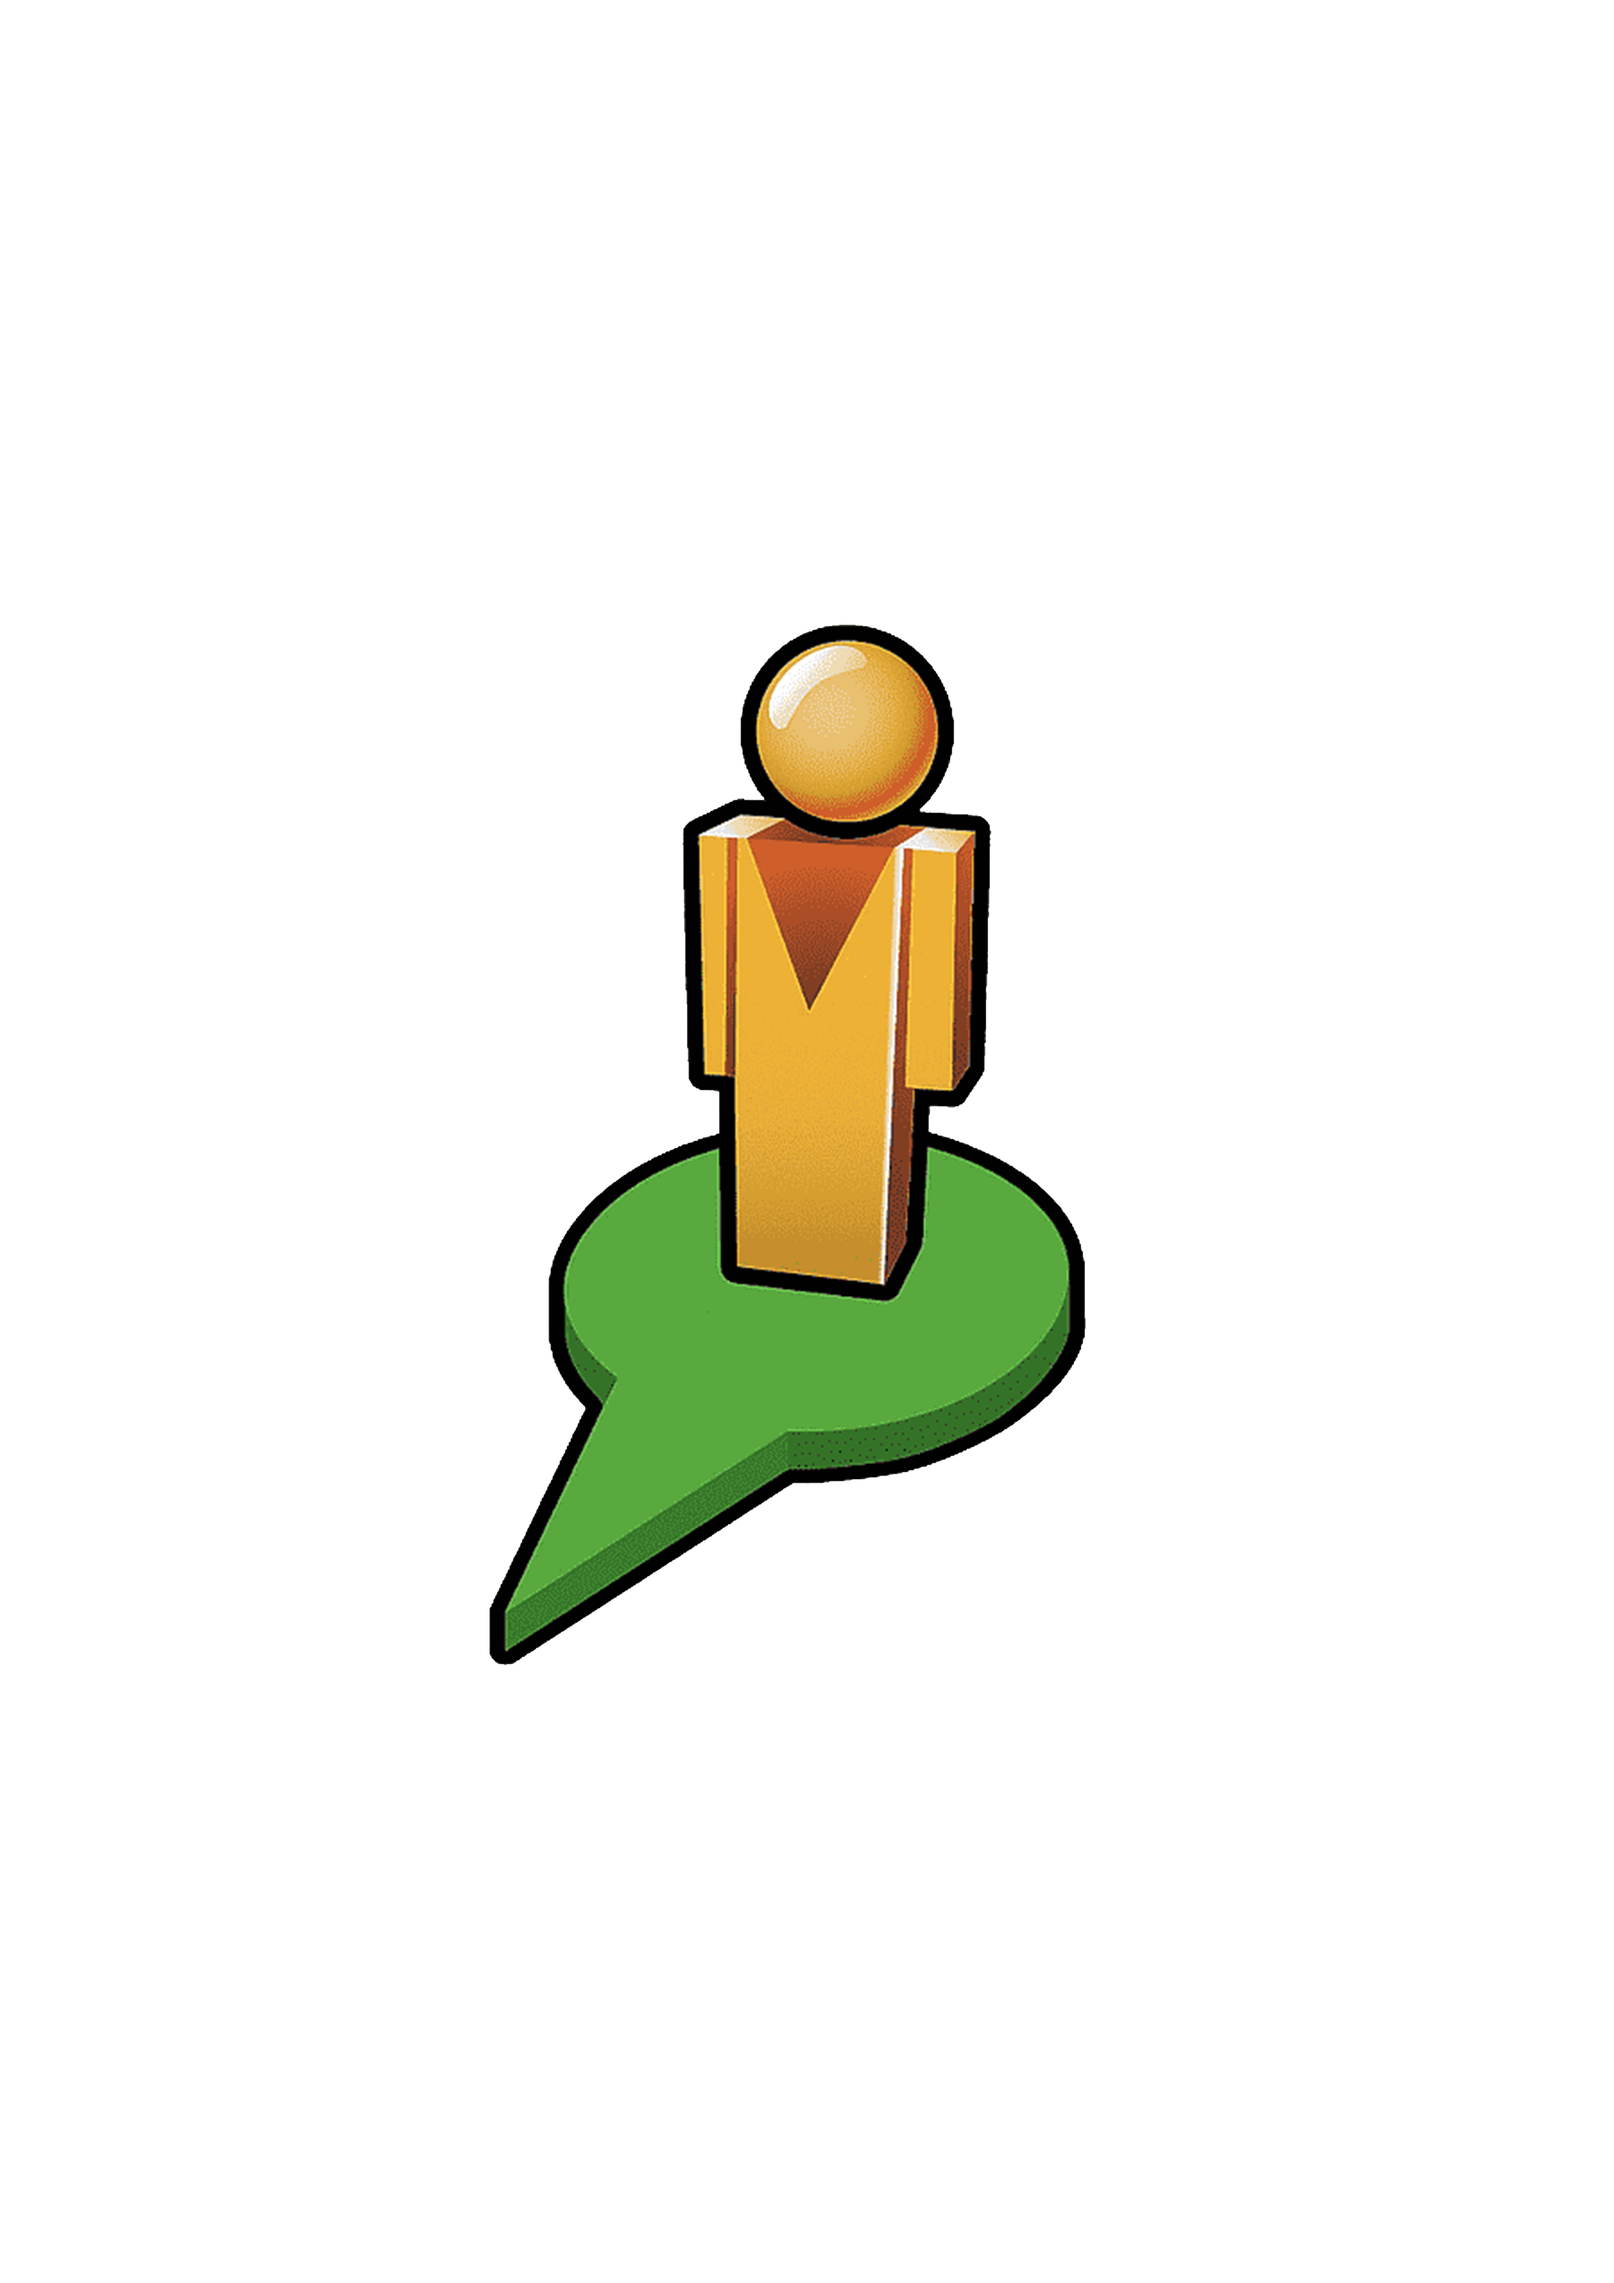
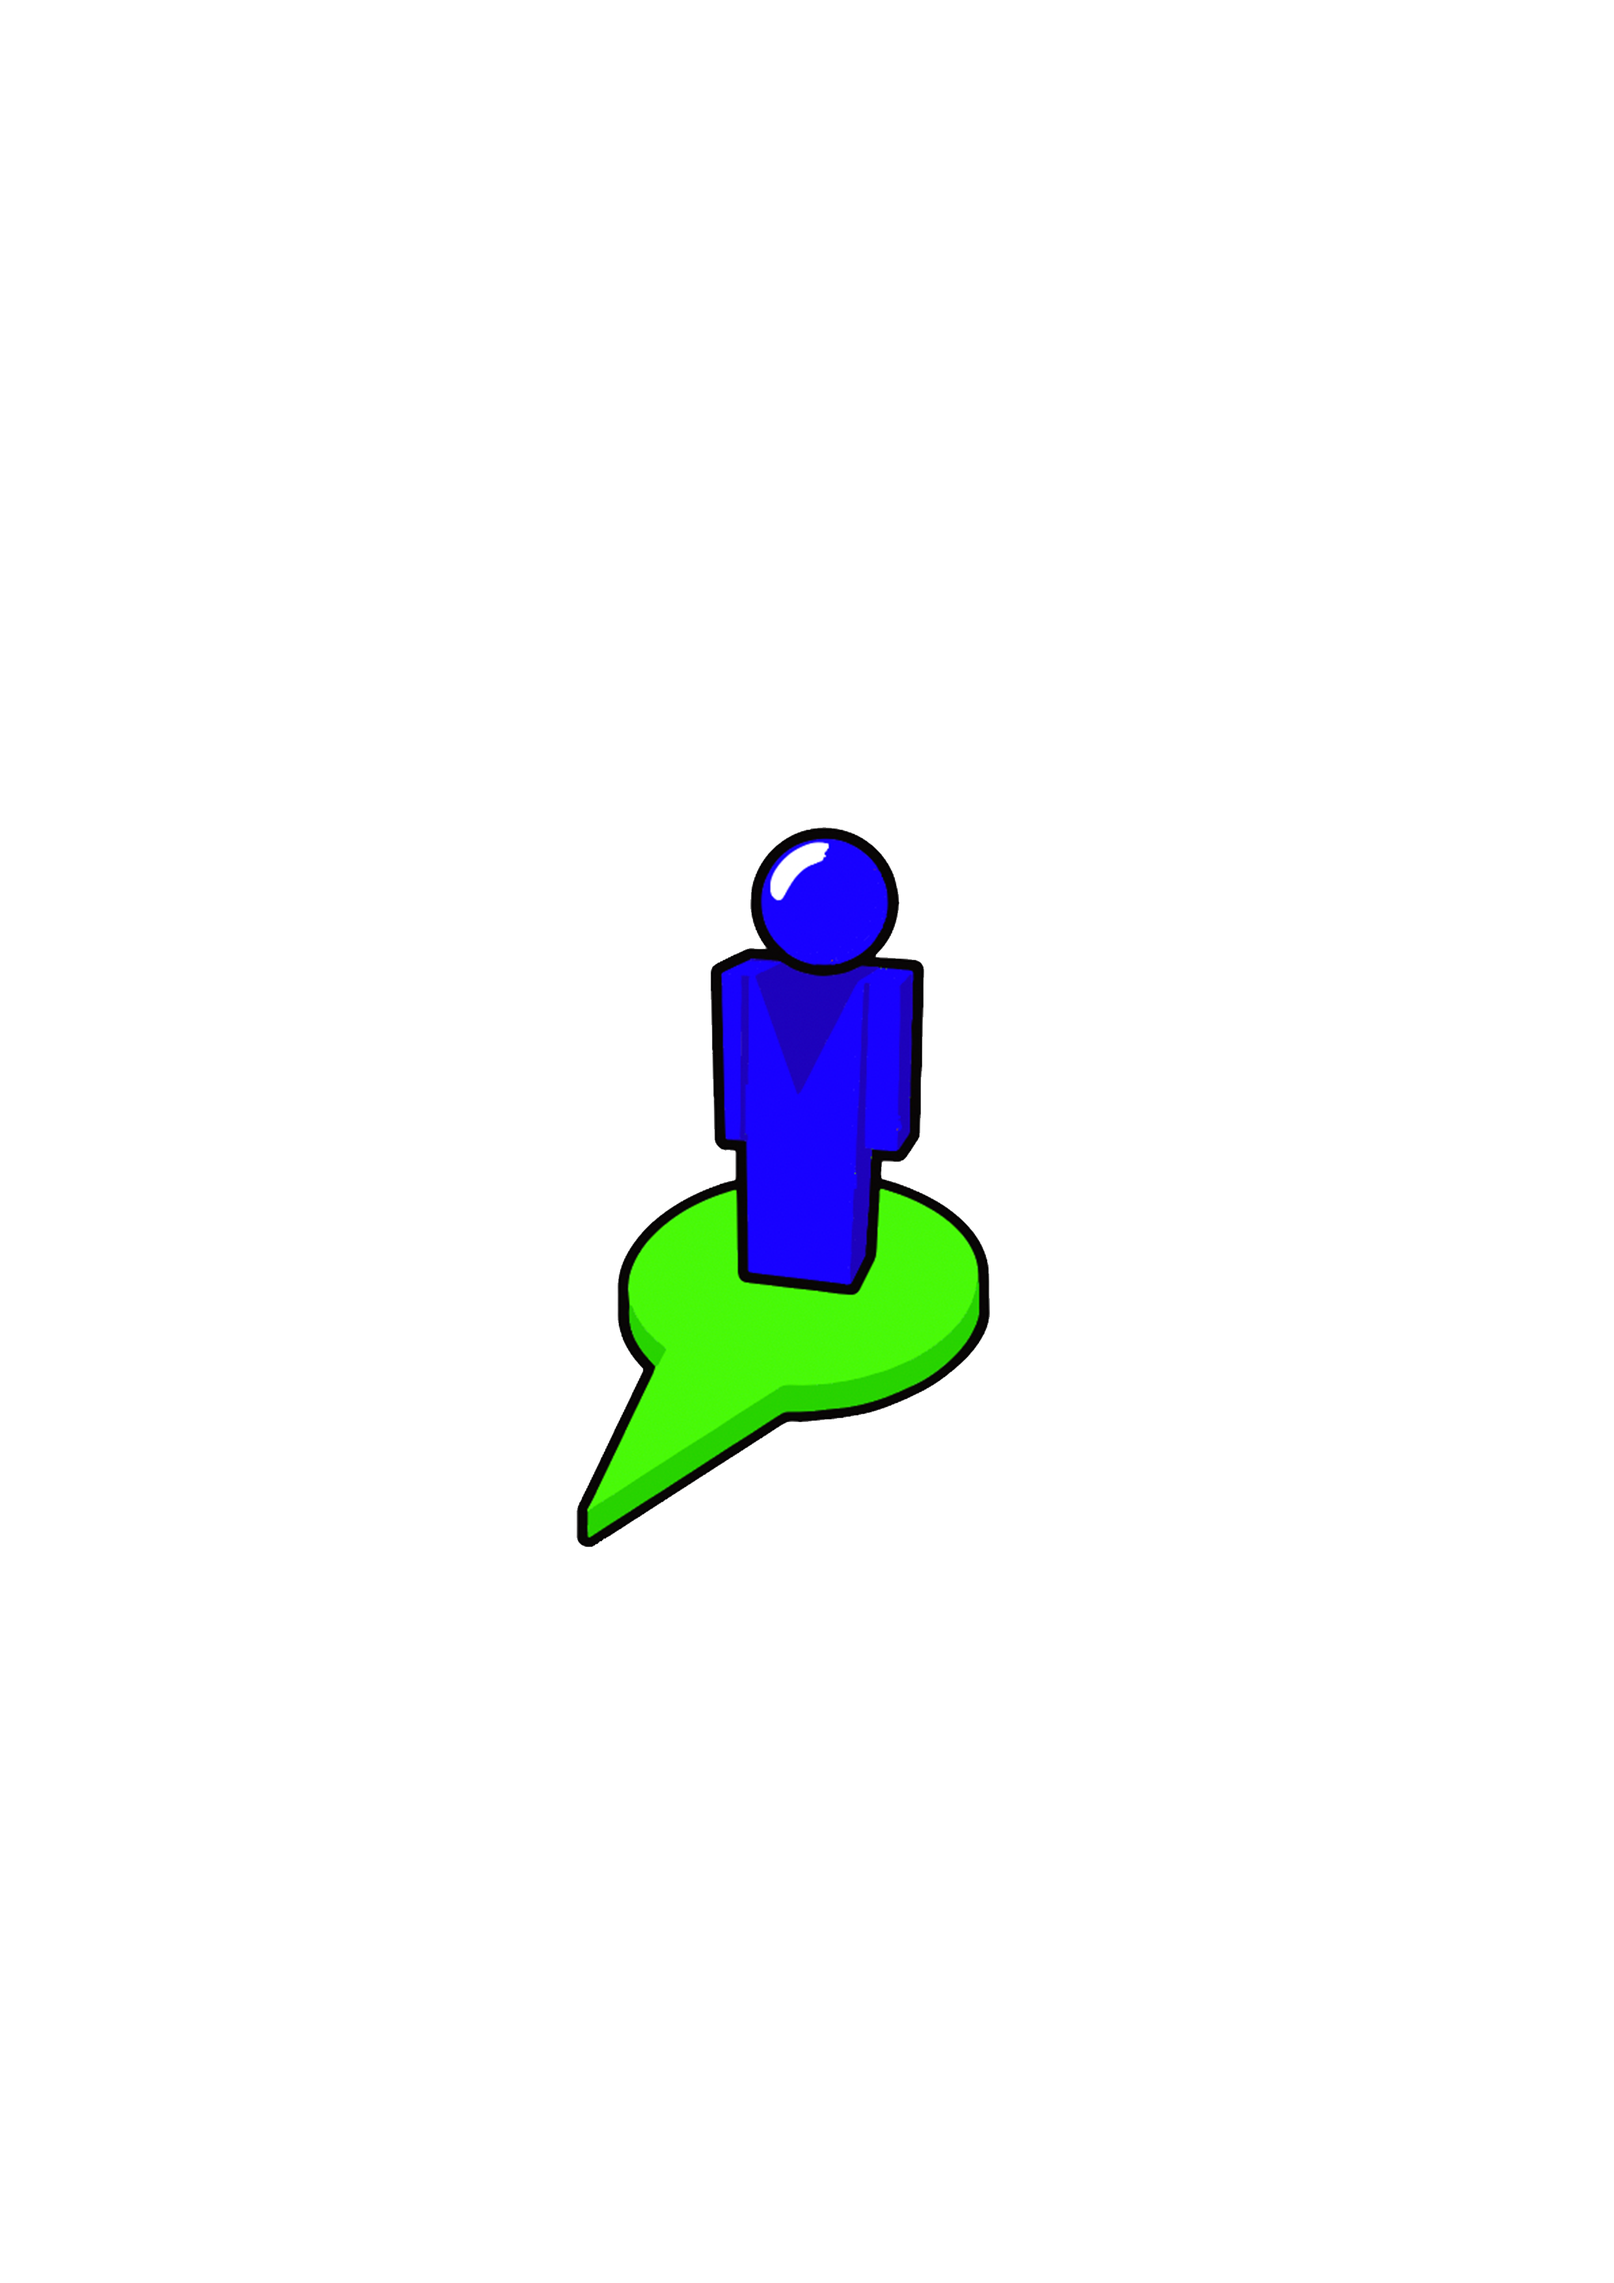
update

Changed region(s): [[0.2794, 0.2486, 0.6831, 0.7457]]

diff --git a/style.css b/style.css
@@ -32,24 +32,24 @@ div.bgimap {
 
 div.bgiicon {
     position: fixed;
-    top: 2%;
+    top: 5%;
     right: 0%;
     background-image: url("streetviewicon.png");
     background-position: 0 0;
-    width: 130px;
-    height: 130px;
+    width: 80px;
+    height: 80px;
     margin: 0;
     padding: 0;
     }
 
 div.bgicompass {
     position: fixed;
-    top: 19%;
-    left: 93%;
+    top: 16%;
+    left: 96%;
     background-position: 0 0;
     background-repeat:no-repeat;
-    width: 150px;
-    height: 150px;
+    width: 100px;
+    height: 100px;
     margin: 0;
     padding: 0;
     
@@ -57,12 +57,12 @@ div.bgicompass {
 
 div.bgirelocate {
     position: fixed;
-    top: 20%;
-    left: 88%;
+    top: 16%;
+    left: 92.5%;
     background-position: 0 0;
     background-repeat:no-repeat;
-    width: 220px;
-    height: 220px;
+    width: 150px;
+    height: 150px;
     margin: 0;
     padding: 0;
 }

diff --git a/index.html b/index.html
@@ -314,7 +314,7 @@
 </div>
 
 <div class="bgirelocate">
-    <img src="relocate.png" alt="">
+    <img src="relocater.png" alt="">
 </div>
 
 <script src="class-changes.js"></script>
